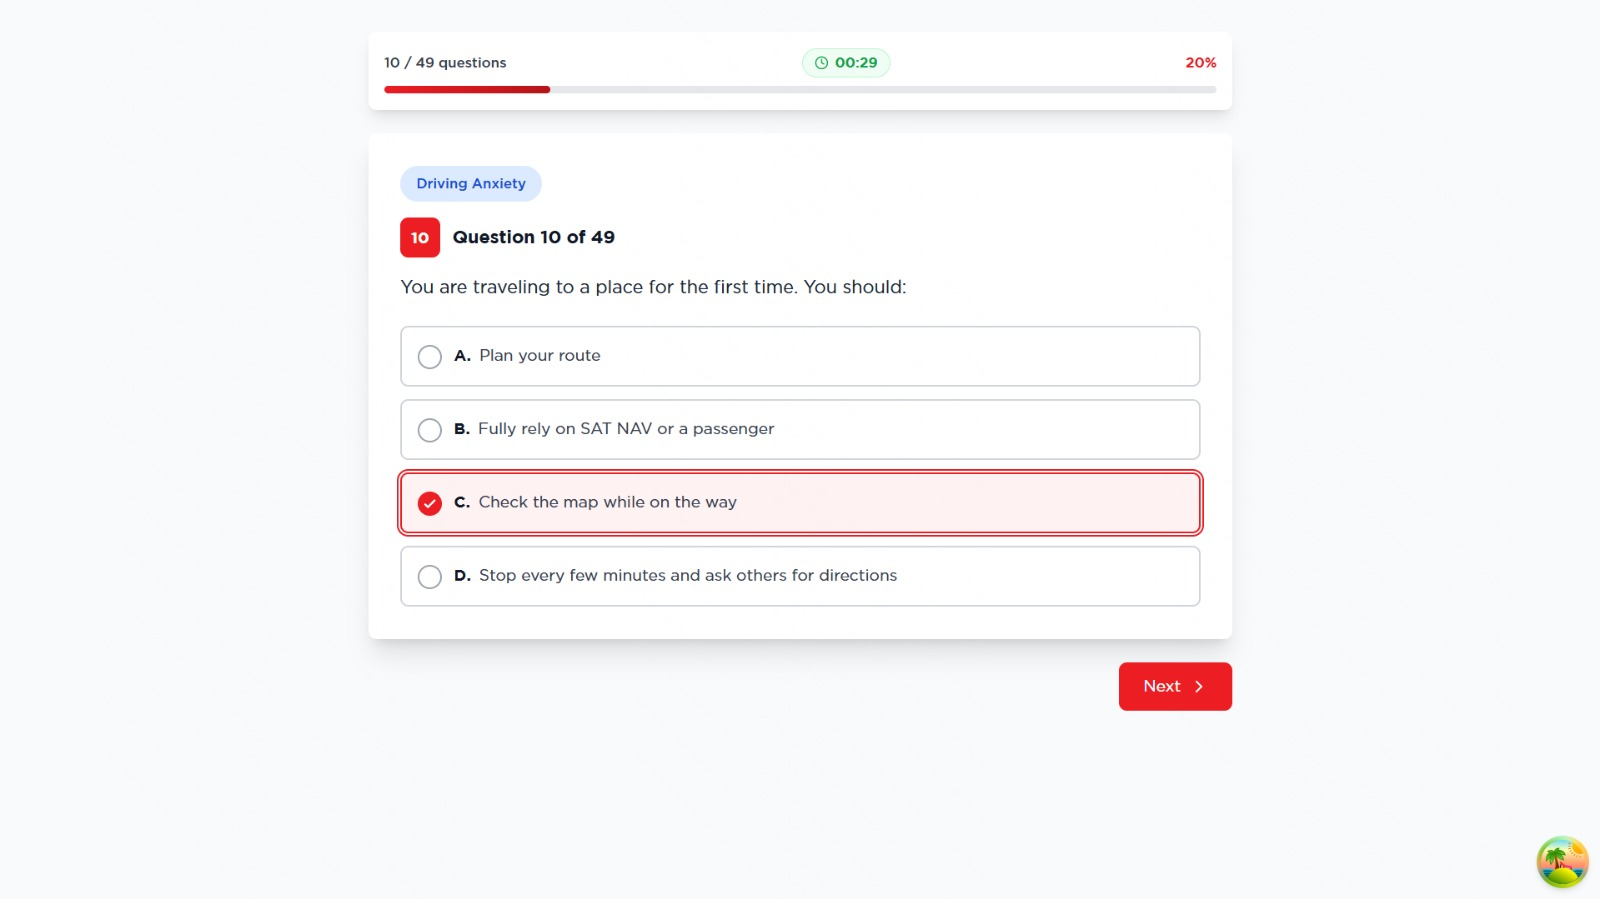
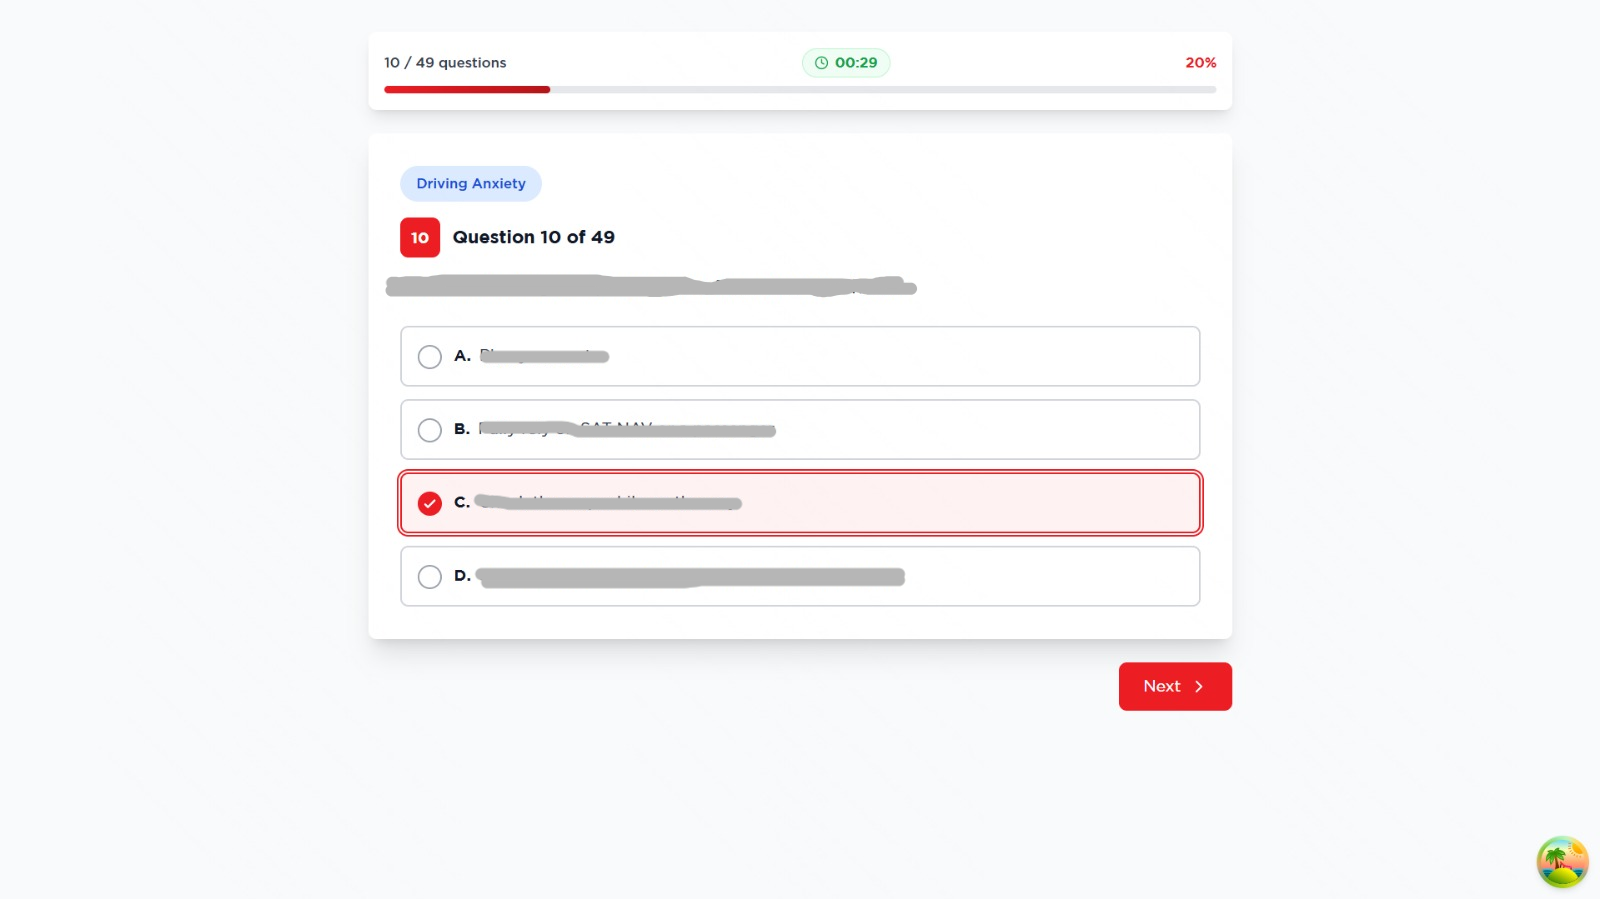
edit images

diff --git a/index.html b/index.html
@@ -274,7 +274,7 @@
                <!-- Hanggar17 Internal System -->
                <article class="projects__card" data-project="hanggar17" onclick="openModal('hanggar17')">
                   <div class="projects__image">
-                     <img src="assets/img/hanggar17/1.png" alt="Hanggar17 Internal System" class="projects__img">
+                     <img src="assets/img/hanggar17/0.png" alt="Hanggar17 Internal System" class="projects__img">
                   </div>
 
                   <div class="projects__content">
@@ -508,6 +508,7 @@
                   <div class="modal-images">
                      <div class="image-slider">
                         <div class="slider-container">
+                           <img src="assets/img/hanggar17/0.png" alt="Hanggar17 Thumbnail" class="slider-image active">
                            <img src="assets/img/hanggar17/1.png" alt="Hanggar17 1" class="slider-image active">
                            <img src="assets/img/hanggar17/2.png" alt="Hanggar17 2" class="slider-image">
                            <img src="assets/img/hanggar17/3.png" alt="Hanggar17 3" class="slider-image">
